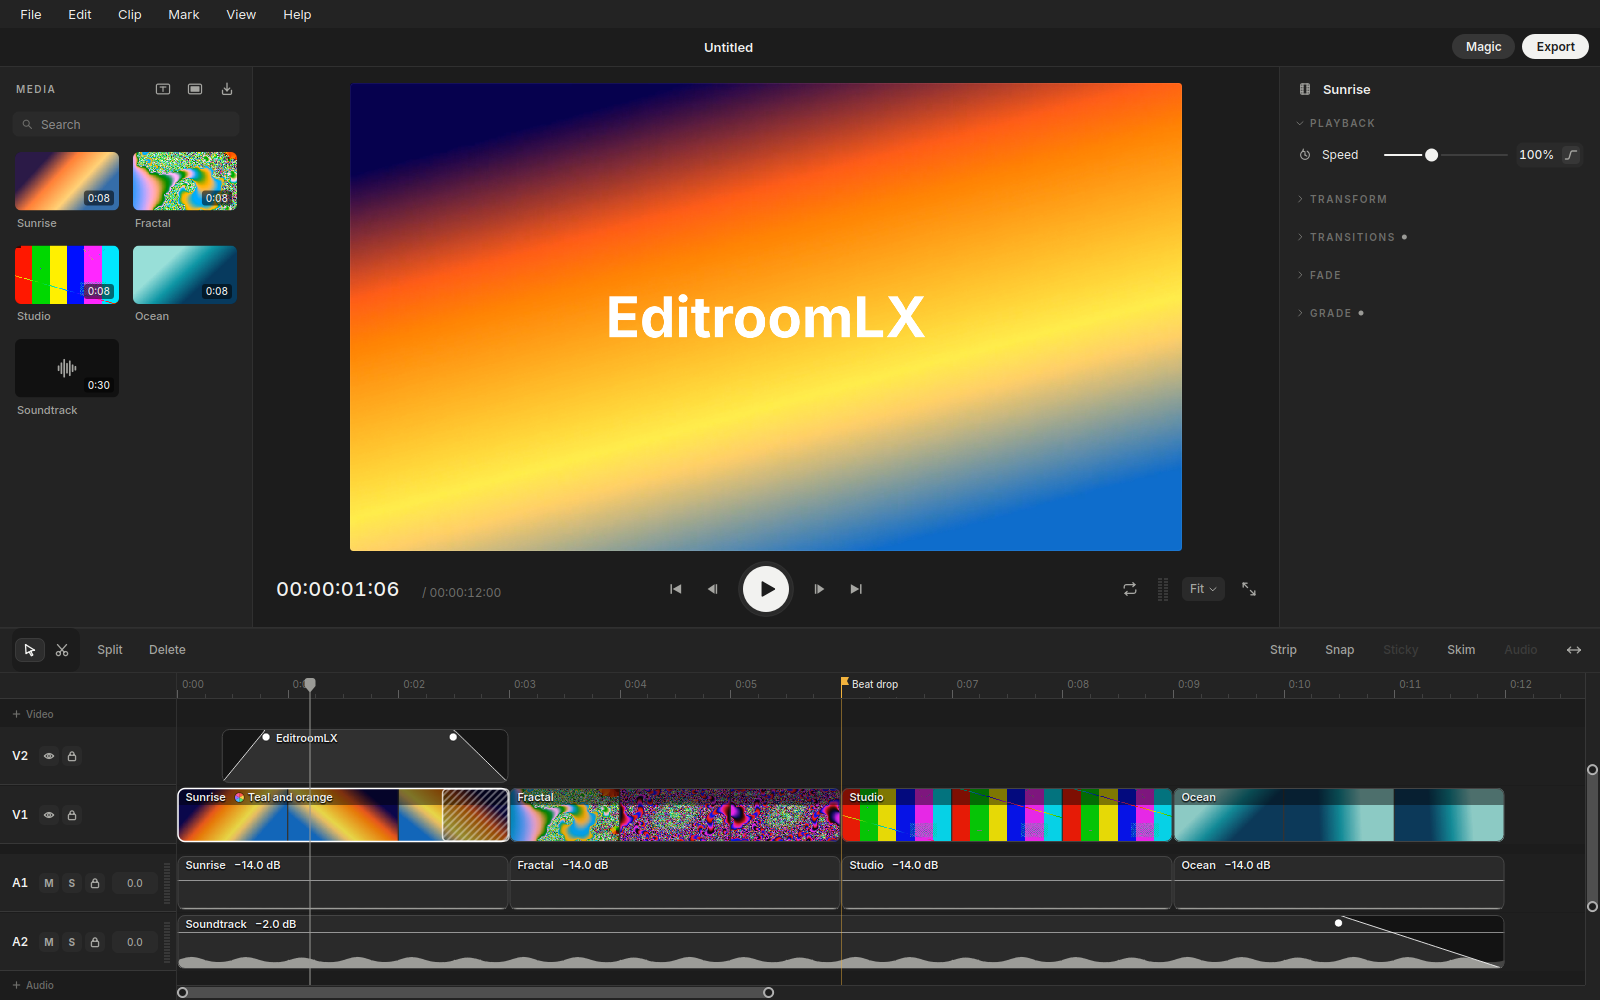
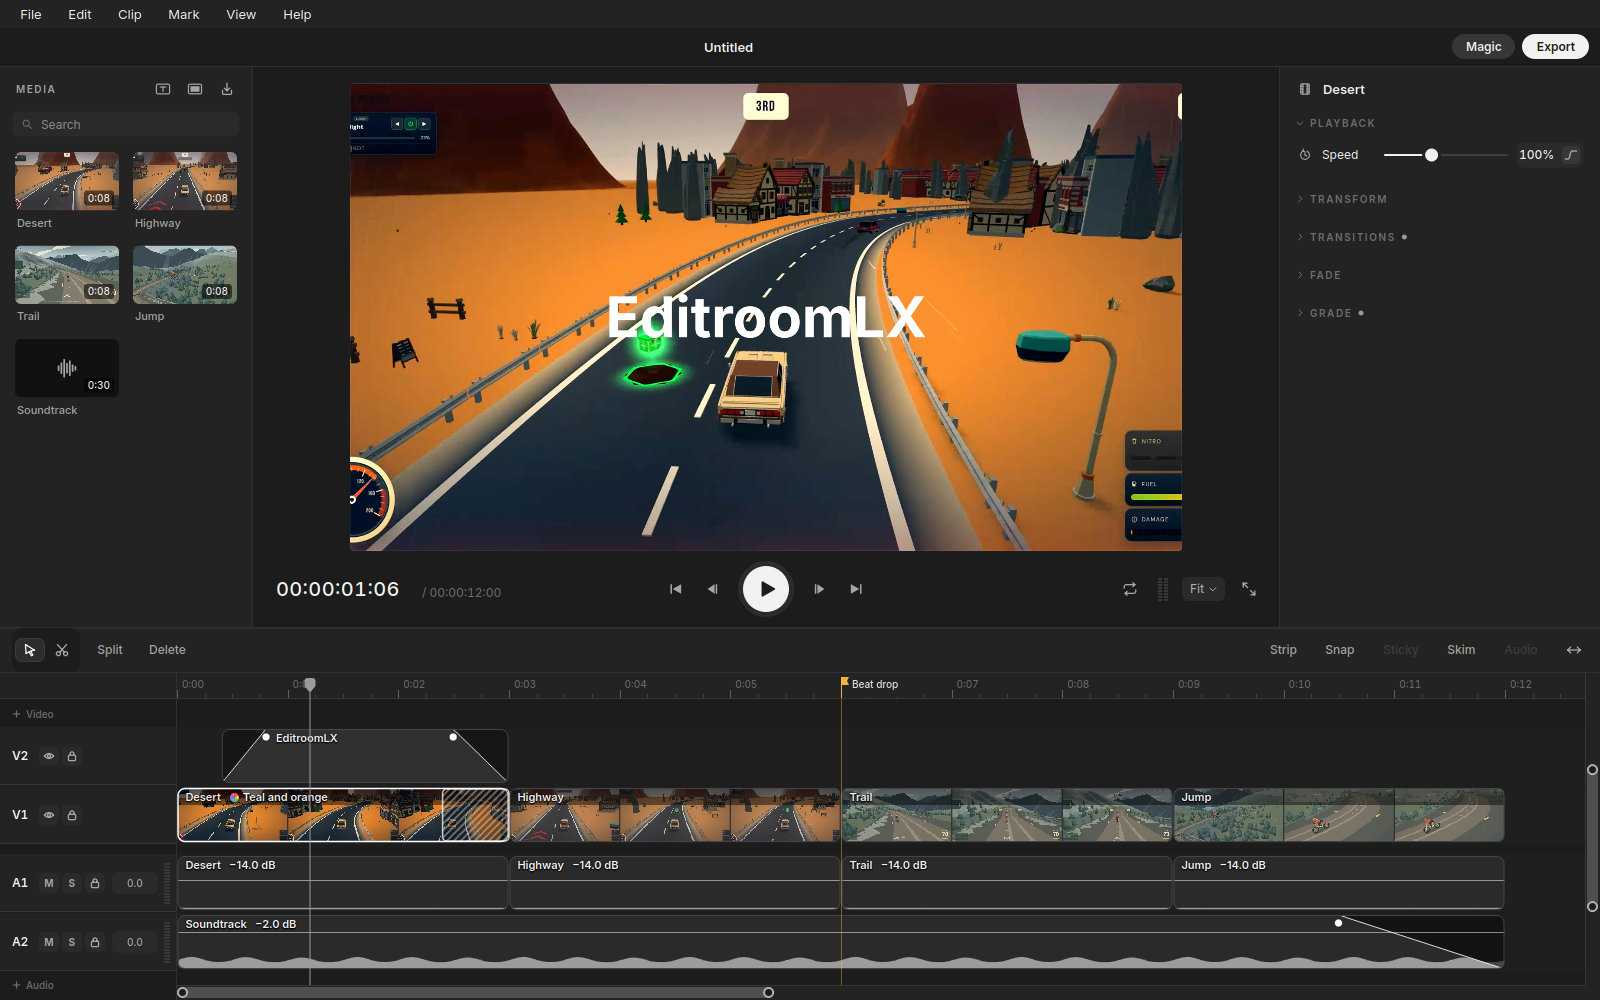
README: a compact layout, with screenshots of real footage
The screenshots now show shots cut from two screen recordings instead of
ffmpeg test patterns; make-readme-shots.sh takes the recordings as
arguments and still falls back to the patterns without them.

Changed region(s): [[0.2188, 0.062, 0.75, 0.558], [0.0938, 0.775, 0.9375, 0.868], [0.0, 0.155, 0.1562, 0.341]]

diff --git a/tests/docs/tst_readme.cpp b/tests/docs/tst_readme.cpp
@@ -49,7 +49,7 @@ private slots:
         w->resize(1600, 1000);
         w->show();
         QVERIFY(QTest::qWaitForWindowExposed(w.get()));
-        for (const char* f : {"Sunrise.mp4", "Fractal.mp4", "Studio.mp4", "Ocean.mp4", "Soundtrack.wav"}) {
+        for (const char* f : {"Desert.mp4", "Highway.mp4", "Trail.mp4", "Jump.mp4", "Soundtrack.wav"}) {
             auto a = c->media().importFile(media + u'/' + QLatin1String(f));
             QVERIFY2(a, f);
             assets[QLatin1String(f)] = *a;
@@ -61,7 +61,7 @@ private slots:
             const Uuid v1 = p.videoTracks[0].id, v2 = p.videoTracks[1].id, a1 = p.audioTracks[0].id, a2 = p.audioTracks[1].id;
             double t = 0;
             int k = 0;
-            for (const char* f : {"Sunrise.mp4", "Fractal.mp4", "Studio.mp4", "Ocean.mp4"}) {
+            for (const char* f : {"Desert.mp4", "Highway.mp4", "Trail.mp4", "Jump.mp4"}) {
                 const MediaAsset& a = assets[QLatin1String(f)];
                 const Uuid link = newUuid();
                 Clip v(v1, ClipKind::video, t, 3.0, 1.0);
@@ -120,7 +120,7 @@ private slots:
         MagicPopover pop(*c, agent, w.get());
         pop.show();
         settle();
-        if (auto* box = pop.findChild<QPlainTextEdit*>()) box->setPlainText(QStringLiteral("make it 20 seconds, fast, black and white, and open on @Ocean"));
+        if (auto* box = pop.findChild<QPlainTextEdit*>()) box->setPlainText(QStringLiteral("make it 20 seconds, fast, black and white, and open on @Jump"));
         settle(300);
         save(&pop, "magic-box");
     }

diff --git a/README.md b/README.md
@@ -1,154 +1,117 @@
-<p align="center"><img src="resources/icons/hicolor/editroom-128.png" width="96" alt="EditroomLX icon"></p>
+<p align="center"><img src="resources/icons/hicolor/editroom-128.png" width="88" alt="EditroomLX icon"></p>
 
 <h1 align="center">EditroomLX</h1>
 
 <p align="center">A fast video editor for Linux, the port of Editroom for the Mac.<br>
 C++20, Qt 6 and Vulkan. GPU where it helps, everything on your computer.</p>
 
+<p align="center">
+  <a href="https://github.com/ClaudiuJitea/editroomLX/releases">Download</a> ·
+  <a href="#build">Build</a> ·
+  <a href="docs/PARITY.md">Parity with the Mac</a>
+</p>
+
 ![The editor: media, the viewer, the inspector and the timeline](docs/images/editor.png)
 
-## What it does
+## Features
 
-### Edit on a timeline
+| | |
+|:--|:--|
+| **Timeline.** Trim, split, move with linked sound, Alt-copy, snapping, markers, in/out, fades, gain lines, dissolves, speed ramps and zooms. Skim clips in Media by hovering. Every change is one undo step. | **Titles and captions.** Any font, size and colour, with fades. Captions come from what's said in your clips, heard on this computer. |
+| **Colour.** Looks (Teal and orange, Film print, Mono…), exposure, contrast, saturation and three grade wheels. HDR (HLG, PQ) and Apple Log brought to Rec.709. | **Sound.** Waveforms, per-track meters and solo, ducking under dialogue, loudness targets (-14 / -16 / -23 LUFS), time-stretched speed changes. |
+| **Fast.** One Vulkan compositor kernel (with an identical OpenMP CPU path): a 4K frame with three layers, a grade and a title in ~16 ms on Iris Xe. Hardware decode (VA-API, Vulkan Video, NVDEC) with zero-copy DMA-BUFs: 4K 10-bit HEVC at ~265 fps. | **Export.** H.264 or HEVC through hardware encoders (VA-API, NVENC, Vulkan), FSR 1 EASU upscaling, libx264/libopenh264 fallback, WAV, vertical and square crops, and a background queue. |
 
-Bring in videos, photos and sound from anywhere: linked folders, drag and drop, or the Media panel. Hover over a
-clip in Media to skim it in the viewer. On the timeline you can trim, split, move with the linked sound following,
-copy with Alt, and use snapping, markers, an in/out range, fades, gain lines, dissolves, speed ramps and zooms.
-Reveal in Media (Shift+F) finds a clip's file in Media. Every change is one undo step.
+<table>
+  <tr>
+    <td width="50%"><img src="docs/images/titles.png" alt="Titles, with their own inspector"><br><sub>Titles, with their own inspector</sub></td>
+    <td width="50%"><img src="docs/images/export.png" alt="Export"><br><sub>Export</sub></td>
+  </tr>
+</table>
 
-![Titles, with their own inspector](docs/images/titles.png)
+## Magic
 
-- **Titles and captions.** Titles in any font, size and colour, with fades. Captions come from what's said in your
-  clips, heard on this computer.
-- **Colour.** Built-in looks (Teal and orange, Film print, Mono and others), exposure, contrast, saturation and
-  three grade wheels. HDR (HLG and PQ) and Apple Log footage is brought to Rec.709.
-- **Sound.** Waveforms, per-track meters and solo, ducking under dialogue, loudness targets (-14 LUFS for YouTube,
-  -16 for podcasts, -23 for broadcast) and time-stretched speed changes.
+Ask for an edit in plain words, or leave the box empty for the best cut EditroomLX can make from your Media. Point at
+things with `@` (the playhead, the selection, a clip, a marker). It runs through Claude Code, Codex (ChatGPT) or
+**Local**, which needs no account and no network. Local Magic cuts to the beat, changes length, pace, look, music and
+frame shape, adds titles and captions, cuts pauses out of talking and ramps speed. Other AI apps can edit over MCP
+(43 tools on 127.0.0.1, plus a stdio bridge).
 
-### Magic
+<table>
+  <tr>
+    <td width="33%"><img src="docs/images/magic-box.png" alt="The Magic box"><br><sub>Ask</sub></td>
+    <td width="33%"><img src="docs/images/magic-thinking.png" alt="Magic scanning and sketching the cut"><br><sub>It scans and sketches the cut</sub></td>
+    <td width="33%"><img src="docs/images/magic-cursors.png" alt="Magic's cursors making the edit"><br><sub>Cursors make it, one undo step</sub></td>
+  </tr>
+</table>
 
-Ask for an edit in plain words, or leave the box empty for the best cut Editroom can make from your Media. It runs
-through Claude Code or Codex (ChatGPT), or **Local**, which works on this computer with no account and no network.
-Any other AI app can connect with the prompt from Settings › Magic › Copy Prompt.
-Point at things with `@`: the playhead, the selection, the in/out range, a file, a clip or a marker.
+## On your computer, and the options
 
-![The Magic box](docs/images/magic-box.png)
+Speech (whisper.cpp) for captions and transcript search, scenes (CLIP) for finding "the dog" in Media, and faces
+(YuNet) for the best moments. The speech and scene models are about 150 MB each and download only when you ask.
+Nothing you edit leaves the machine unless you use Claude or ChatGPT. Settings has five themes, editable shortcuts,
+Magic's AI apps and opt-in update checks (at most once a day). Projects are `.room` files, shared with the Mac app.
 
-While Magic works out the edit, the window dims and the clips it looks at are scanned. The cut it's planning is
-sketched on the timeline:
-
-![Magic thinking: scans, the dot field and the sketch of the cut](docs/images/magic-thinking.png)
-
-Then cursors make the edit, one step at a time. The whole edit is a single undo step, and Esc puts everything back:
-
-![Magic's cursors making the edit](docs/images/magic-cursors.png)
-
-Local Magic can make a cut to the beat of a song, improve the edit you have, change the length, pace, look, music
-and frame shape (vertical, square), add titles and captions, cut the pauses out of talking, ramp the speed and
-move shots by name. AI apps connected over MCP can edit as well: 43 tools on 127.0.0.1, plus a stdio bridge.
-
-### On your computer
-
-- **Speech** (whisper.cpp) for captions, transcripts and searching what's said, and **scenes** (CLIP) for finding
-  "the pool" or "the dog" in Media. Each model is about 150 MB and downloads once, only when you ask for it.
-- **Faces** (YuNet) for picking the best moments. This model is small and comes with the app.
-- Nothing you edit is sent anywhere unless you use Claude or ChatGPT, or ask for a model download or an update
-  check.
-
-![Settings › General: themes, view, saving and the on-device models](docs/images/settings.png)
-
-### Fast
-
-- **Rendering** runs on the GPU, through one Vulkan compositor kernel, with an OpenMP CPU path that gives the same
-  pixels. A 4K frame with three layers, a grade and a title takes about 16 ms on an Intel Iris Xe.
-- **Decoding** is done in hardware (VA-API, Vulkan Video, NVDEC). VA-API frames go to the compositor as
-  DMA-BUFs and never pass through system memory: 4K 10-bit HEVC decodes at about 265 fps.
-- **The viewer** shows frames straight from the GPU, through a Vulkan swapchain, on X11 and Wayland.
-
-### Export
-
-MP4 in H.264 or HEVC through hardware encoders (VA-API, NVENC, Vulkan), checked for correct colour before they're
-used. Video exported bigger than its own pixels (a 1080p clip at 4K) is upscaled with an edge-aware upscaler (AMD
-FSR 1's EASU) rather than stretched. Falls back to libx264 or libopenh264, and also writes WAV. Vertical, square and portrait crops, loudness
-targets, the in/out range only, and a queue that runs in the background.
-
-![Export](docs/images/export.png)
-
-### Settings and updates
-
-Five themes (Grey is the default), editable shortcuts, Magic and its AI apps, and updates. **Help › Check for
-Updates…** looks for the latest release on
-[GitHub](https://github.com/ClaudiuJitea/editroomLX/releases). Automatic checks are off until you turn them on,
-and then run at most once a day.
-
-![Settings › Updates](docs/images/settings-updates.png)
-
-Projects are `.room` files, the same format as the Mac app, so a project opens on either.
+<table>
+  <tr>
+    <td width="33%"><img src="docs/images/settings.png" alt="Settings › General"><br><sub>General: themes, saving, models</sub></td>
+    <td width="33%"><img src="docs/images/settings-magic.png" alt="Settings › Magic"><br><sub>Magic and its AI apps</sub></td>
+    <td width="33%"><img src="docs/images/settings-updates.png" alt="Settings › Updates"><br><sub>Updates</sub></td>
+  </tr>
+</table>
 
 ## Install
 
-Build the packages yourself (see below), or download one from the
-[releases](https://github.com/ClaudiuJitea/editroomLX/releases) when they're published:
-
 ```bash
-sudo apt install ./editroom-lx_*.deb        # Ubuntu, Debian
+sudo apt install ./editroom-lx_*.deb        # from the releases, or build one below
 ```
 
-For hardware video on Intel, install `intel-media-va-driver`. ONNX Runtime (`libonnxruntime1.23`) is only needed
-for scene tags.
+For hardware video on Intel, install `intel-media-va-driver`. ONNX Runtime (`libonnxruntime1.23`) is only needed for
+scene tags.
 
 ## Build
 
 ```bash
-cmake --preset release && cmake --build --preset release
-build/release/src/app/editroom-lx                        # the editor
-cmake --build build/release --target package             # .deb and .tgz
-scripts/make-appimage.sh "$PWD/build/tools"             # AppImage (linuxdeploy in build/tools; FFmpeg from the system)
-```
-
-On Ubuntu or Debian:
-
-```bash
 sudo apt install cmake ninja-build g++ qt6-base-dev glslang-tools libvulkan-dev \
   libavcodec62 libavformat62 libavutil60 libswscale9 libswresample6
+cmake --preset release && cmake --build --preset release
+build/release/src/app/editroom-lx                        # run it
+cmake --build build/release --target package             # .deb and .tgz
+scripts/make-appimage.sh "$PWD/build/tools"             # AppImage
 ```
 
-Needs CMake 3.24+, Ninja, GCC 13+ or Clang 17+, Qt 6.8+ (Core, Gui, Widgets, Network, Concurrent, Test), OpenMP,
-`glslangValidator` (glslang-tools) to compile the shaders, the FFmpeg 8 shared libraries (headers are in
-`third_party/ffmpeg`), and a Vulkan 1.1 driver for the GPU path
-(`EDITROOM_GPU=cpu` forces the CPU). On Intel Mesa, hardware video needs `ANV_DEBUG=video-decode,video-encode`,
-which the app sets itself.
+Needs CMake 3.24+, GCC 13+ or Clang 17+, Qt 6.8+, OpenMP, the FFmpeg 8 shared libraries and a Vulkan 1.1 driver
+(`EDITROOM_GPU=cpu` forces the CPU path).
 
-## Test
+<details>
+<summary><b>Tests</b></summary>
 
 ```bash
 cmake --preset debug && cmake --build --preset debug && ctest --preset debug
 scripts/make-test-clips.py --set tests/media             # clips some tests use
-build/release/src/app/editroom-lx --selftest tests/media /tmp/st              # the headless engine check
+build/release/src/app/editroom-lx --selftest tests/media /tmp/st              # headless engine check
 build/release/src/app/editroom-lx --format-check /tmp/fc tests/media/*_h*.m*   # colour through every path
 build/release/src/app/editroom-lx --bench bench-media    # timings
 QT_QPA_PLATFORM=wayland build/debug/tests/tst_present    # GPU presenting (needs a display)
-scripts/make-readme-shots.sh                             # the screenshots above
+scripts/make-readme-shots.sh [rec-1.mp4 rec-2.mp4]       # the screenshots above
 ```
 
-Tests that hear speech or see scenes need the models. Configure with `EDITROOM_WHISPER_MODEL=<ggml-base.bin>` and
-`EDITROOM_CLIP_MODEL=<folder with Xenova/clip-vit-base-patch32's quantised ONNX files and tokenizer.json>`; without
-them those tests skip.
+Speech and scene tests need `EDITROOM_WHISPER_MODEL=<ggml-base.bin>` and `EDITROOM_CLIP_MODEL=<folder with
+Xenova/clip-vit-base-patch32's quantised ONNX files and tokenizer.json>`; without them they skip.
+</details>
 
 ## More
 
-[PROMPT.md](PROMPT.md) sets the goals and [IMPLEMENTATION.md](IMPLEMENTATION.md) the plan.
-[docs/PARITY.md](docs/PARITY.md) lists every difference from the Mac app and what's still to build. `docs/sync/`
-holds one record per sync with the Mac, and `docs/bench/` the measured timings.
+[PROMPT.md](PROMPT.md) sets the goals, [IMPLEMENTATION.md](IMPLEMENTATION.md) the plan, and
+[docs/PARITY.md](docs/PARITY.md) lists every difference from the Mac app. `docs/sync/` has one record per sync with
+the Mac, and `docs/bench/` the measured timings.
 
 EditroomLX is MIT-licensed. FFmpeg is linked dynamically (LGPL); the third-party licences are in `third_party/`.
 
 ## Credits
 
-EditroomLX is a port of [Editroom](https://github.com/robbietilton/Editroom), the open-source video editor for
-the Mac by [@robbietilton](https://github.com/robbietilton) (Wonder Assembly LLC), released under the MIT
-licence. Its design, features, Magic and the `.room` project format all come from the Mac app; this port
-recreates them for Linux. Thank you to the Editroom authors for making it open source.
+A port of [Editroom](https://github.com/robbietilton/Editroom), the open-source Mac video editor by
+[@robbietilton](https://github.com/robbietilton) (Wonder Assembly LLC), MIT-licensed. Its design, features, Magic
+and the `.room` format come from the Mac app. Thank you to the Editroom authors for making it open source.
 
 Also built with [Qt](https://www.qt.io), [FFmpeg](https://ffmpeg.org), [whisper.cpp](https://github.com/ggml-org/whisper.cpp),
 [ONNX Runtime](https://onnxruntime.ai), [miniaudio](https://miniaud.io),
